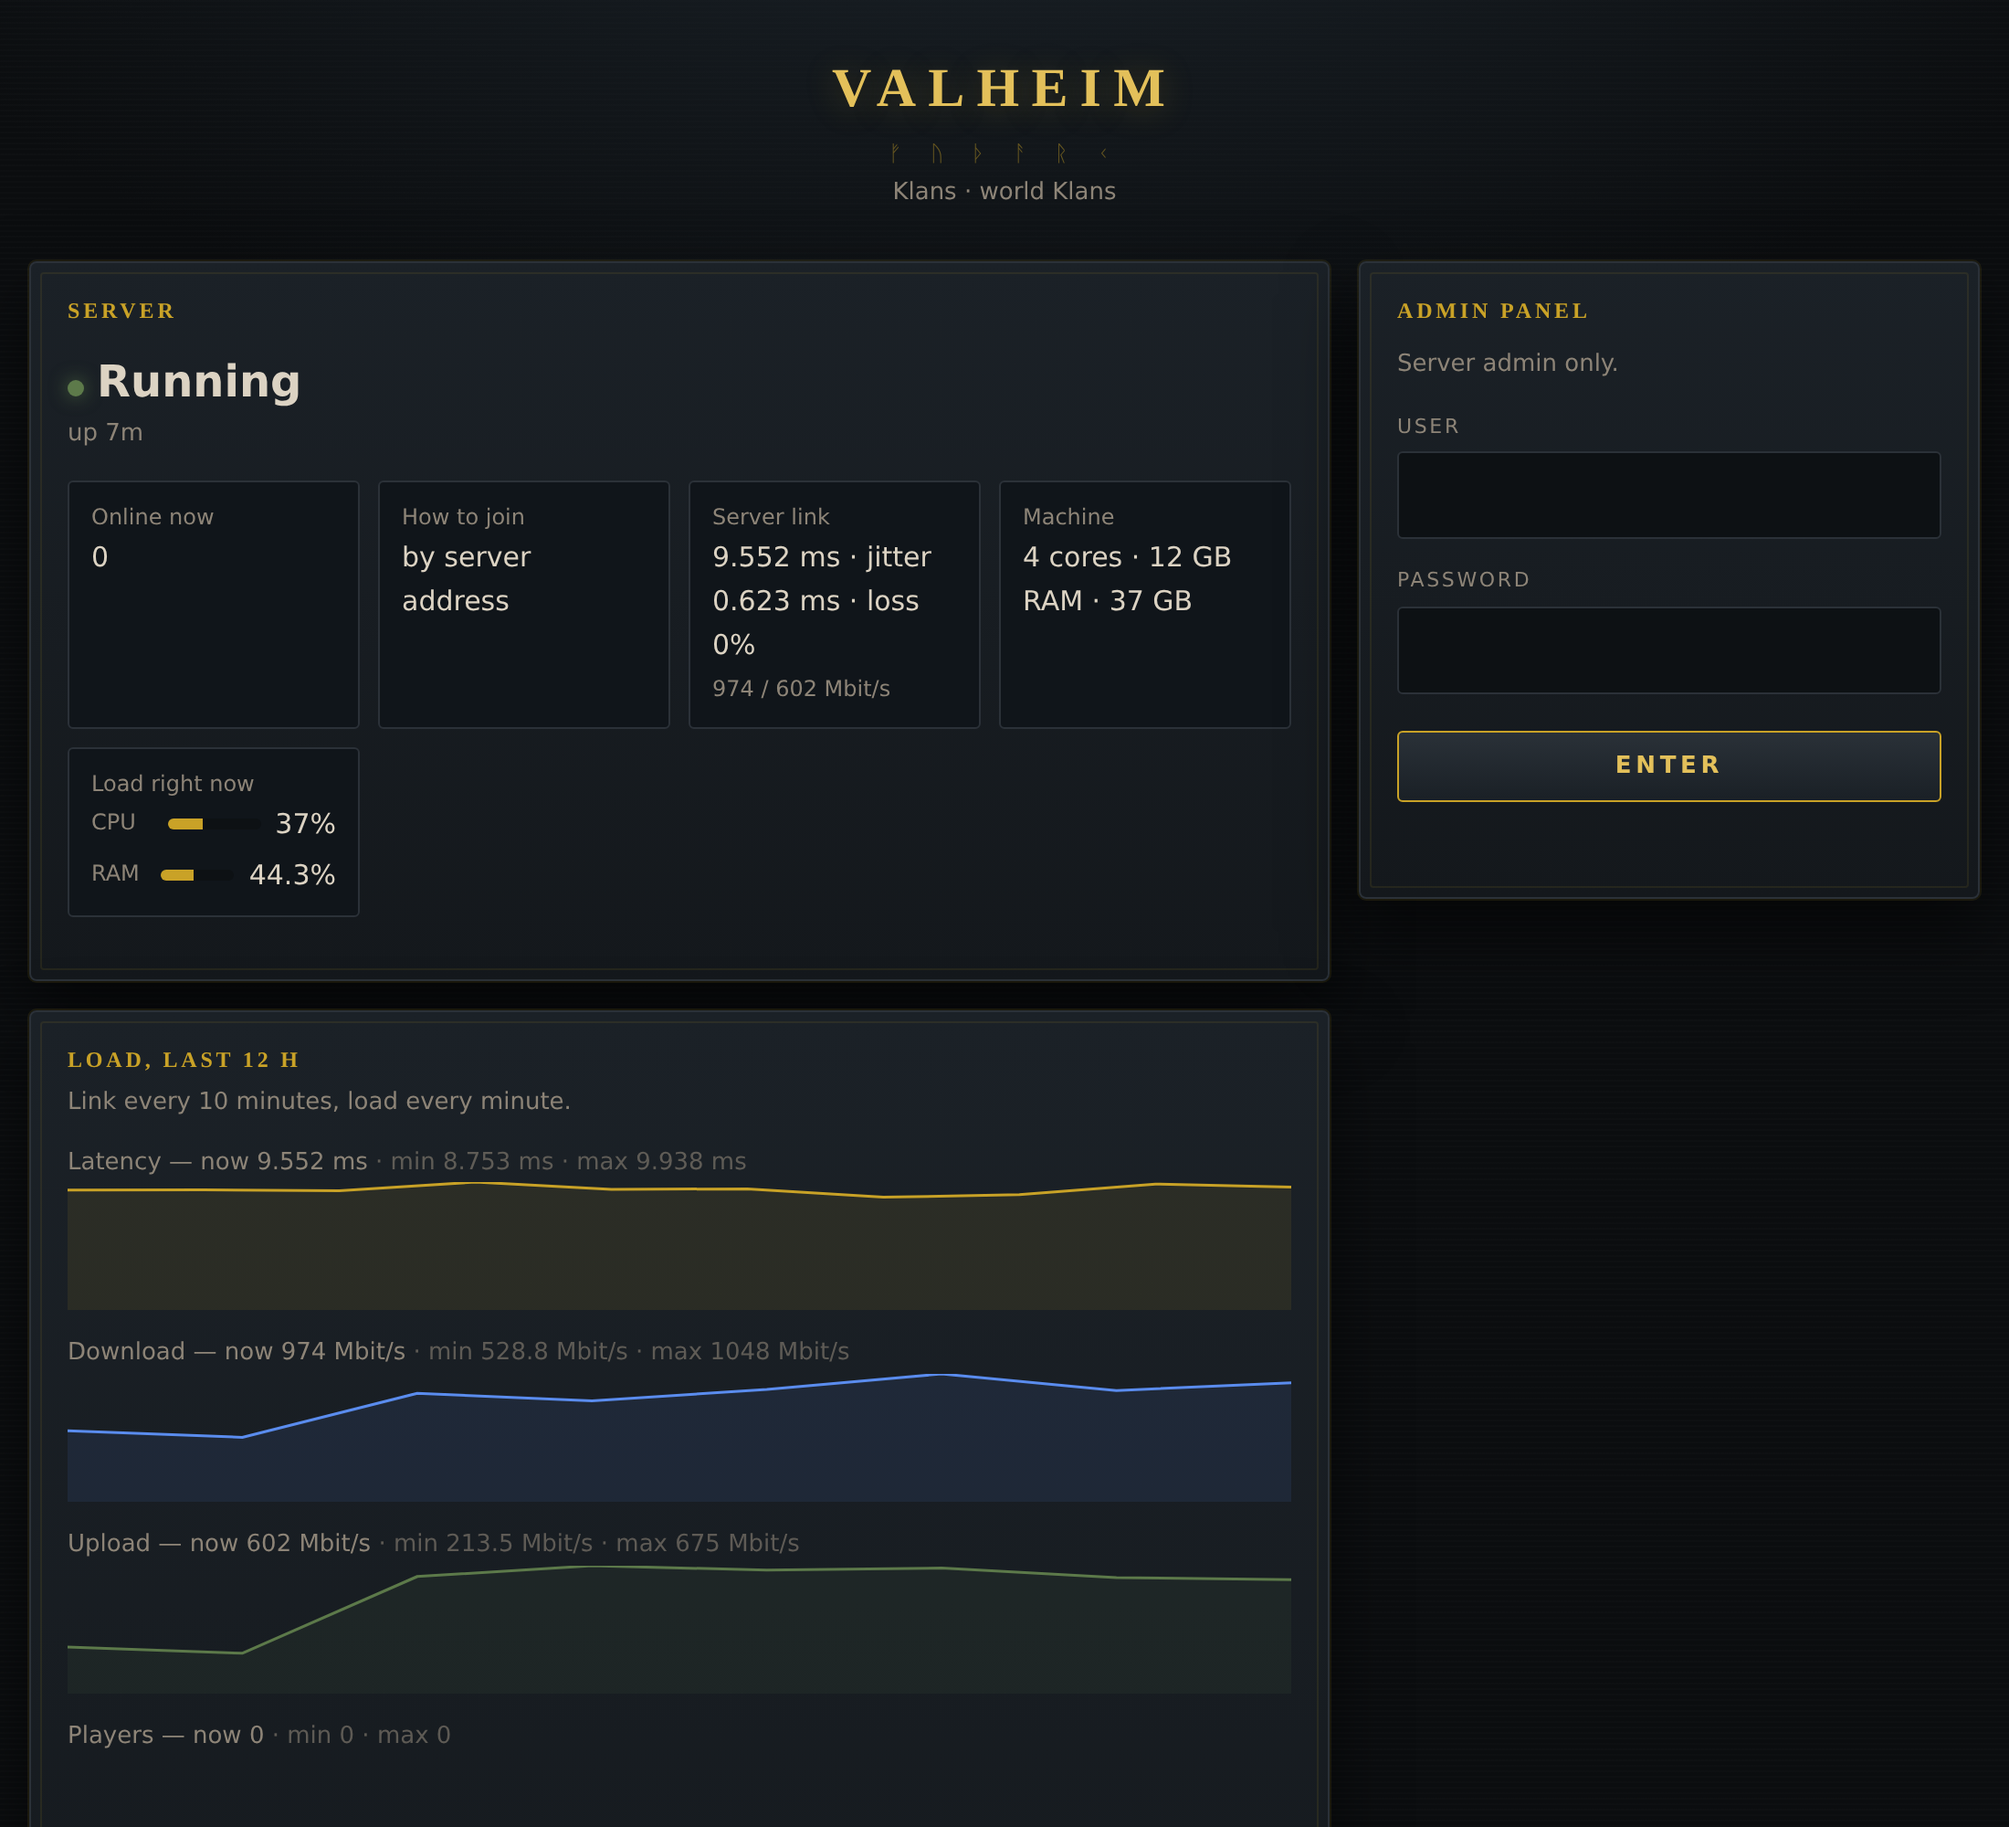
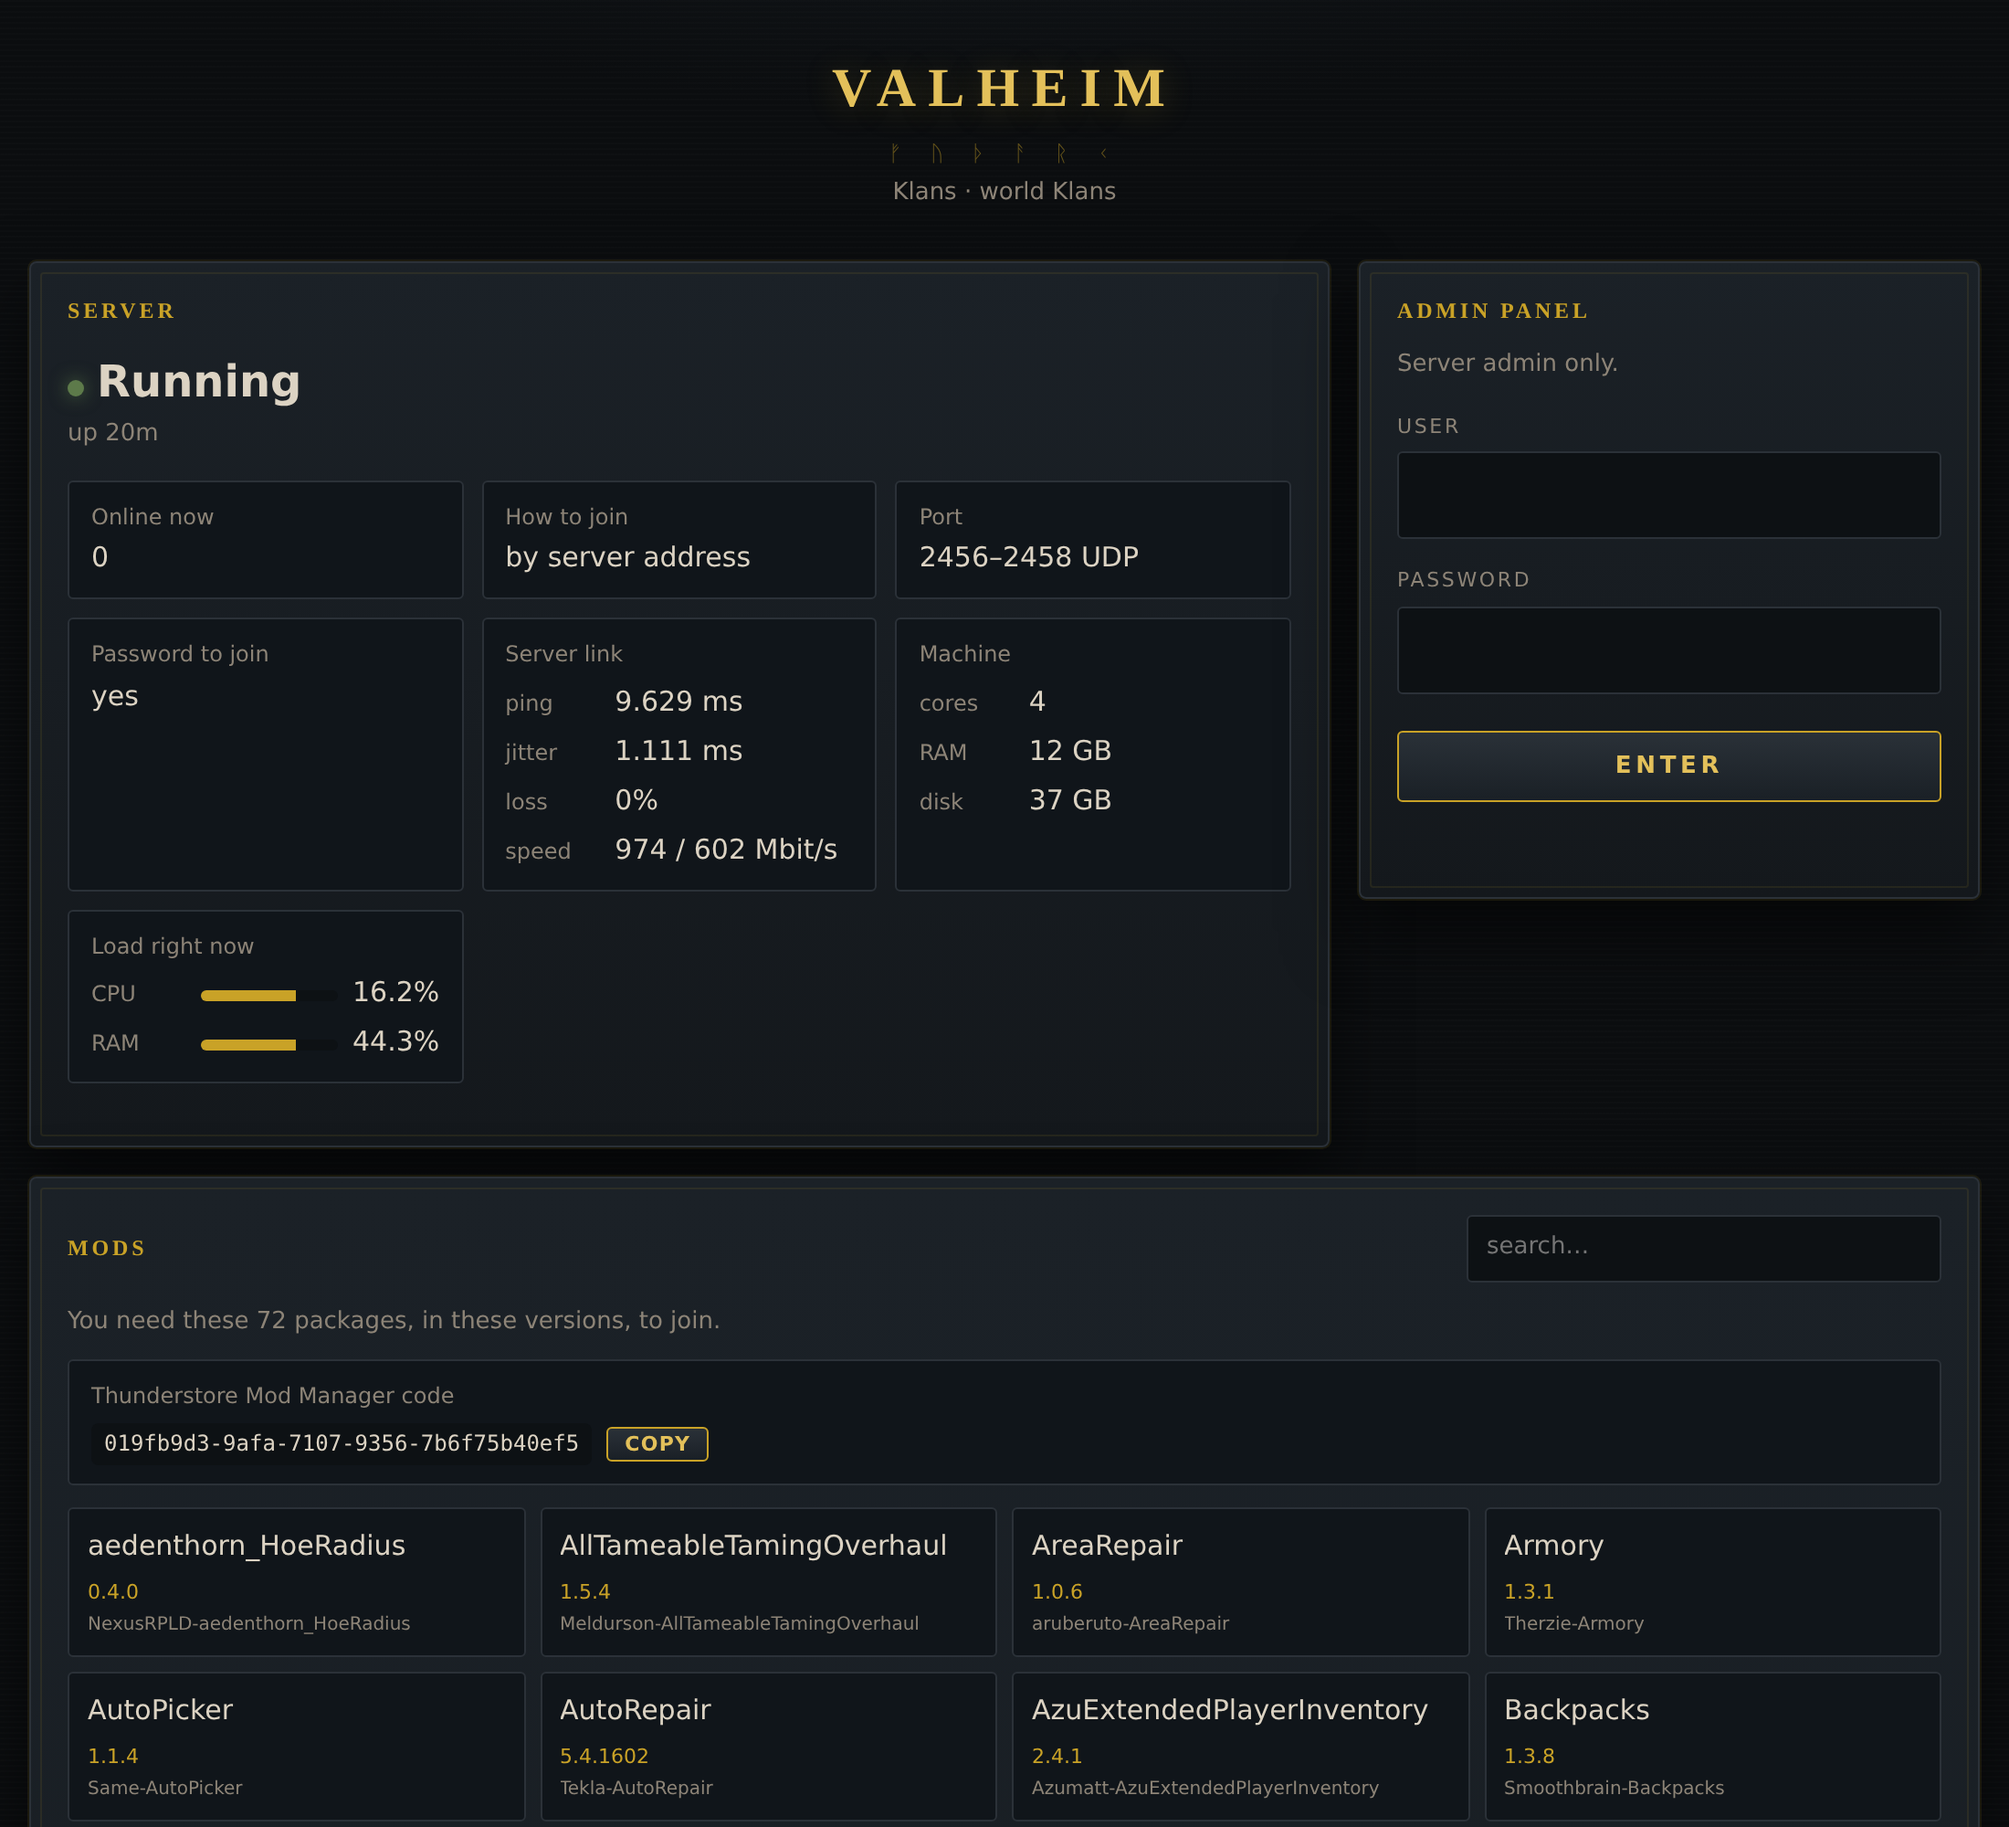
public page: lay it out for a real mod list
Seventy-two mods rendered as a narrow column beside an empty half-page. Status
and login now share the top row, the mod list spans the full width as tiles
with a search box, and the charts go underneath. The page also got wider.

Two CSS holes showed up while doing it: .row was never defined in login.html,
so every header meant to be a flex row stacked instead, and the value cells
wrapped mid-phrase - both are key/value rows now.

diff --git a/panel/login.html b/panel/login.html
@@ -18,12 +18,18 @@
       radial-gradient(700px 400px at 50% 110%, #171a14 0%, transparent 60%),
       repeating-linear-gradient(0deg, rgba(255,255,255,.012) 0 1px, transparent 1px 3px),
       var(--bg)}
-  .wrap{max-width:1080px;margin:0 auto}
+  .wrap{max-width:1400px;margin:0 auto}
   header{text-align:center;margin-bottom:26px}
   h1{margin:0;font:600 30px/1.1 Georgia,"Times New Roman",serif;letter-spacing:.22em;
     text-transform:uppercase;color:var(--gold2);text-shadow:0 2px 18px rgba(201,162,39,.25)}
   .runes{color:var(--gold);opacity:.45;letter-spacing:.5em;margin:10px 0 2px;font-size:12px}
   .cols{display:grid;grid-template-columns:1fr 340px;gap:16px;align-items:start}
+  .mods-grid{display:grid;grid-template-columns:repeat(auto-fill,minmax(230px,1fr));gap:8px}
+  .mod{background:#10151a;border:1px solid var(--line);border-radius:3px;padding:8px 10px;min-width:0}
+  .mod b{font-weight:500;display:block;white-space:nowrap;overflow:hidden;text-overflow:ellipsis}
+  .mod .v{color:var(--gold);font-size:11px}
+  .mod .fn{color:var(--dim);font-size:10px;white-space:nowrap;overflow:hidden;text-overflow:ellipsis}
+  #mod-filter{max-width:260px;padding:7px 10px;font-size:13px}
   @media(max-width:860px){.cols{grid-template-columns:1fr}}
   .box{background:linear-gradient(180deg,var(--stone2),var(--stone));border:1px solid var(--line);
     border-radius:4px;padding:20px;position:relative;box-shadow:0 0 0 1px rgba(201,162,39,.10),0 18px 40px rgba(0,0,0,.55)}
@@ -31,8 +37,11 @@
   h2{font:600 12px/1 Georgia,serif;text-transform:uppercase;letter-spacing:.16em;color:var(--gold);margin:0 0 14px}
   .big{font-size:24px;font-weight:700}
   .muted{color:var(--dim);font-size:13px}
-  .grid{display:grid;gap:10px;grid-template-columns:repeat(auto-fit,minmax(150px,1fr));margin-bottom:14px}
+  .grid{display:grid;gap:10px;grid-template-columns:repeat(auto-fit,minmax(185px,1fr));margin-bottom:14px}
   .cell{background:#10151a;border:1px solid var(--line);border-radius:3px;padding:10px 12px}
+  .row{display:flex;align-items:center;justify-content:space-between;gap:12px;flex-wrap:wrap}
+  .kv{display:flex;gap:8px;align-items:baseline;margin-top:3px}
+  .kv span:first-child{color:var(--dim);font-size:12px;min-width:52px}
   .cell .muted{font-size:12px}
   .dot{display:inline-block;width:9px;height:9px;border-radius:50%;margin-right:7px}
   .dot.up{background:var(--ok);box-shadow:0 0 10px rgba(93,122,74,.8)}
@@ -64,29 +73,12 @@
   </header>
 
   <div class="cols">
-    <div>
-      <div class="box" id="status-box">
-        <h2 id="h-status">Serwer</h2>
-        <div class="big"><span class="dot" id="dot"></span><span id="state">…</span></div>
-        <div class="muted" id="meta"></div>
-        <div class="grid" style="margin-top:14px" id="cells"></div>
-        <div id="note" class="muted"></div>
-      </div>
-
-      <div class="box" id="mods-box" style="margin-top:16px;display:none">
-        <h2 id="h-mods">Mody</h2>
-        <div class="muted" id="mods-hint"></div>
-        <div id="code-row" style="margin:10px 0"></div>
-        <table><thead><tr><th id="th-mod">Paczka</th><th id="th-ver">Wersja</th></tr></thead>
-        <tbody id="mods"></tbody></table>
-      </div>
-
-      <div class="box" id="chart-box" style="margin-top:16px;display:none">
-        <h2 id="h-charts">Obciążenie, ostatnie 12 h</h2>
-      <div class="muted" style="margin:-6px 0 12px" id="charts-hint">Łącze co 10 minut, obciążenie co minutę.</div>
-        <div id="link-charts"></div>
-      <div id="charts"></div>
-      </div>
+    <div class="box" id="status-box">
+      <h2 id="h-status">Serwer</h2>
+      <div class="big"><span class="dot" id="dot"></span><span id="state">…</span></div>
+      <div class="muted" id="meta"></div>
+      <div class="grid" style="margin-top:14px" id="cells"></div>
+      <div id="note" class="muted"></div>
     </div>
 
     <form class="box" id="f">
@@ -99,6 +91,25 @@
       <button id="b">Wejdź</button>
       <div class="err" id="e"></div>
     </form>
+  </div>
+
+  <div class="box" id="mods-box" style="margin-top:16px;display:none">
+    <div class="row" style="margin-bottom:12px">
+      <h2 id="h-mods" style="margin:0">Mody</h2>
+      <input id="mod-filter" placeholder="szukaj…">
+    </div>
+    <div class="muted" id="mods-hint" style="margin-bottom:10px"></div>
+    <div id="code-row" style="margin-bottom:12px"></div>
+    <div class="mods-grid" id="mods"></div>
+  </div>
+
+  <div class="box" id="chart-box" style="margin-top:16px;display:none">
+    <h2 id="h-charts">Obciążenie, ostatnie 12 h</h2>
+    <div class="muted" style="margin:-6px 0 12px" id="charts-hint">Łącze co 10 minut, obciążenie co minutę.</div>
+    <div class="grid" style="grid-template-columns:repeat(auto-fit,minmax(320px,1fr))">
+      <div id="link-charts"></div>
+      <div id="charts"></div>
+    </div>
   </div>
 
   <div class="foot" id="foot">Brama zamknięta dla nieproszonych</div>
@@ -163,15 +174,20 @@ async function load(){
     if(d.link&&d.link.ping){
       const p=d.link.ping,s=d.link.speed;
       c.push(cell(PL?"Łącze serwera":"Server link",
-        `${p.avg} ms · ${PL?"wahania":"jitter"} ${p.jitter} ms · ${PL?"straty":"loss"} ${p.loss}%`+
-        (s?`<div class="muted" style="margin-top:3px">${s.down_mbit} / ${s.up_mbit} Mbit/s</div>`:"")));
+        `<div class="kv"><span>${PL?"ping":"ping"}</span><span>${p.avg} ms</span></div>
+         <div class="kv"><span>${PL?"wahania":"jitter"}</span><span>${p.jitter} ms</span></div>
+         <div class="kv"><span>${PL?"straty":"loss"}</span><span>${p.loss}%</span></div>`+
+        (s?`<div class="kv"><span>${PL?"pasmo":"speed"}</span><span>${s.down_mbit} / ${s.up_mbit} Mbit/s</span></div>`:"")));
     }
     if(d.specs){
       const gb=b=>b?(b/1073741824).toFixed(b<10*1073741824?1:0)+" GB":"—";
-      c.push(cell(PL?"Maszyna":"Machine",`${d.specs.cores} ${PL?"rdzeni":"cores"} · ${gb(d.specs.ram)} RAM · ${gb(d.specs.disk)}`));
+      c.push(cell(PL?"Maszyna":"Machine",
+        `<div class="kv"><span>${PL?"rdzenie":"cores"}</span><span>${d.specs.cores}</span></div>
+         <div class="kv"><span>RAM</span><span>${gb(d.specs.ram)}</span></div>
+         <div class="kv"><span>${PL?"dysk":"disk"}</span><span>${gb(d.specs.disk)}</span></div>`));
       if(d.load)c.push(cell(PL?"Obciążenie teraz":"Load right now",
-        `<div style="display:flex;gap:8px;align-items:center"><span class="muted" style="width:34px">CPU</span>${bar(d.load.cpu)}<span>${d.load.cpu}%</span></div>
-         <div style="display:flex;gap:8px;align-items:center;margin-top:4px"><span class="muted" style="width:34px">RAM</span>${bar(d.load.mem)}<span>${d.load.mem}%</span></div>`));
+        `<div class="kv"><span>CPU</span>${bar(d.load.cpu)}<span>${d.load.cpu}%</span></div>
+         <div class="kv"><span>RAM</span>${bar(d.load.mem)}<span>${d.load.mem}%</span></div>`));
     }
     document.getElementById("cells").innerHTML=c.join("");
     if(d.note)document.getElementById("note").textContent=d.note;
@@ -179,11 +195,21 @@ async function load(){
     if(d.mods){
       document.getElementById("mods-box").style.display="";
       document.getElementById("mods-hint").textContent=d.mods.length
-        ? (PL?"Do wejścia potrzebujesz tych paczek w tych wersjach.":"You need these packages, in these versions, to join.")
+        ? (PL?`Do wejścia potrzebujesz tych ${d.mods.length} paczek w tych wersjach.`
+             :`You need these ${d.mods.length} packages, in these versions, to join.`)
         : (PL?"Serwer bez modów — nic nie musisz instalować.":"Vanilla server — nothing to install.");
-      document.getElementById("mods").innerHTML=d.mods.map(m=>
-        `<tr><td>${esc(m.name||m.full_name)}<div class="muted" style="font-size:11px">${esc(m.full_name)}</div></td>
-          <td class="muted">${esc(m.version||"?")}</td></tr>`).join("");
+      const draw=q=>{
+        const list=d.mods.filter(m=>!q||((m.name||"")+m.full_name).toLowerCase().includes(q));
+        document.getElementById("mods").innerHTML=list.map(m=>
+          `<div class="mod"><b>${esc(m.name||m.full_name)}</b>
+             <span class="v">${esc(m.version||"?")}</span>
+             <div class="fn">${esc(m.full_name)}</div></div>`).join("")
+          ||`<div class="muted">${PL?"nic nie pasuje":"nothing matches"}</div>`;
+      };
+      draw("");
+      const fi=document.getElementById("mod-filter");
+      fi.oninput=()=>draw(fi.value.trim().toLowerCase());
+      if(!PL)fi.placeholder="search…";
       document.getElementById("code-row").innerHTML=d.profile_code
         ? `<div class="cell"><div class="muted">${PL?"Kod do Thunderstore Mod Managera":"Thunderstore Mod Manager code"}</div>
             <div style="display:flex;gap:8px;align-items:center;margin-top:4px">

diff --git a/README.md b/README.md
@@ -70,6 +70,10 @@ whether a password is required. Plus a free line of your own, e.g. when the serv
 disk, logs, checks and settings all sit behind the login, and `/api/public` is the only route
 that answers without one.
 
+With a big pack the page rearranges itself: status and login share the top row, the mod list
+takes the full width as a grid of tiles with a search box, and the charts sit below. Seventy-two
+mods in a narrow column next to empty space was the first version, and it looked it.
+
 ![Public page](docs/public.png)
 
 ## What it looks like
@@ -426,6 +430,10 @@ potrzebne jest hasło. Plus własne zdanie, np. o której serwer się restartuje
 
 **Hasło do gry nie pojawia się przy żadnym ustawieniu.** Ani nic innego, co panel wie: dysk, logi,
 testy i ustawienia siedzą za logowaniem, a `/api/public` to jedyna trasa odpowiadająca bez niego.
+
+Przy dużym zestawie strona układa się inaczej: status i logowanie dzielą górny rząd, lista modów
+zajmuje całą szerokość jako siatka kafelków z wyszukiwarką, a wykresy idą pod spód. Siedemdziesiąt
+dwa mody w wąskiej kolumnie obok pustego miejsca to była pierwsza wersja i tak właśnie wyglądała.
 
 ![Strona publiczna](docs/public.png)
 
